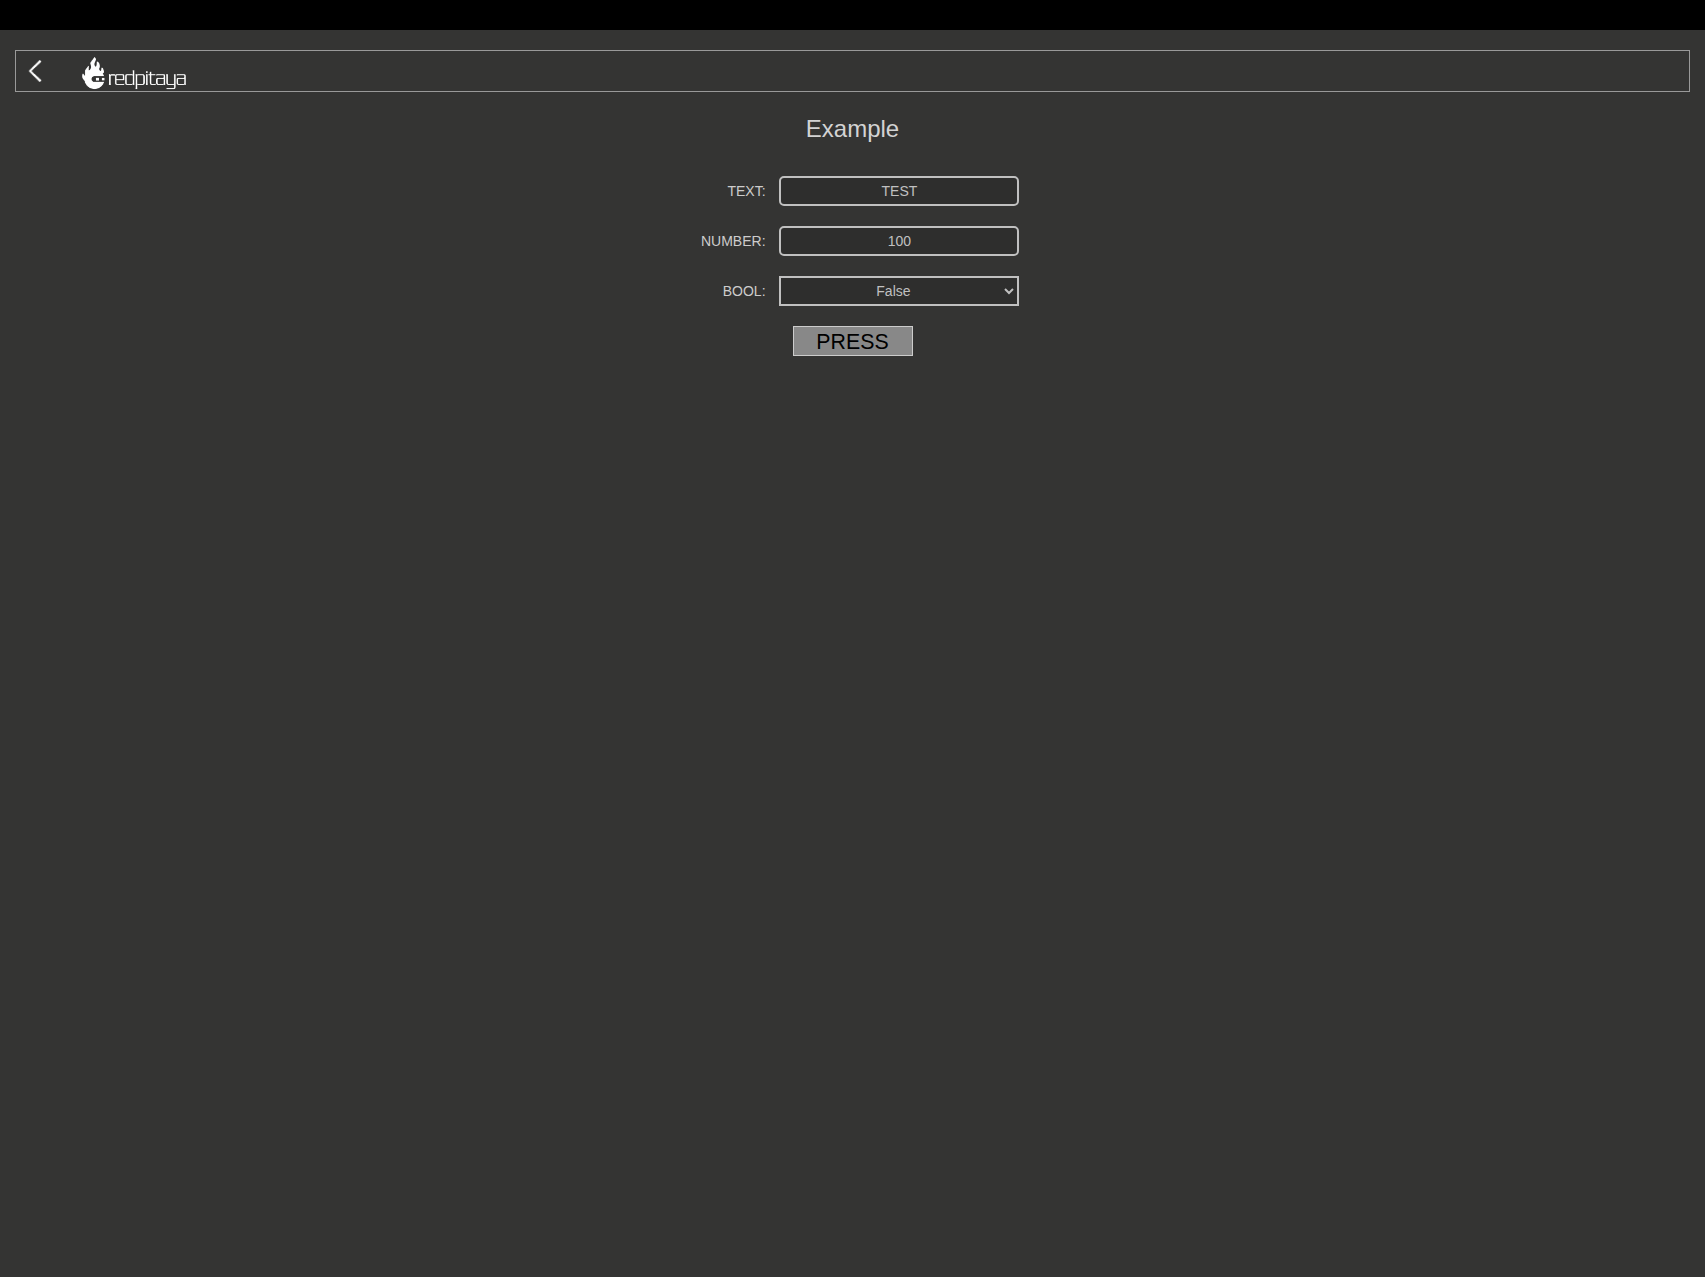
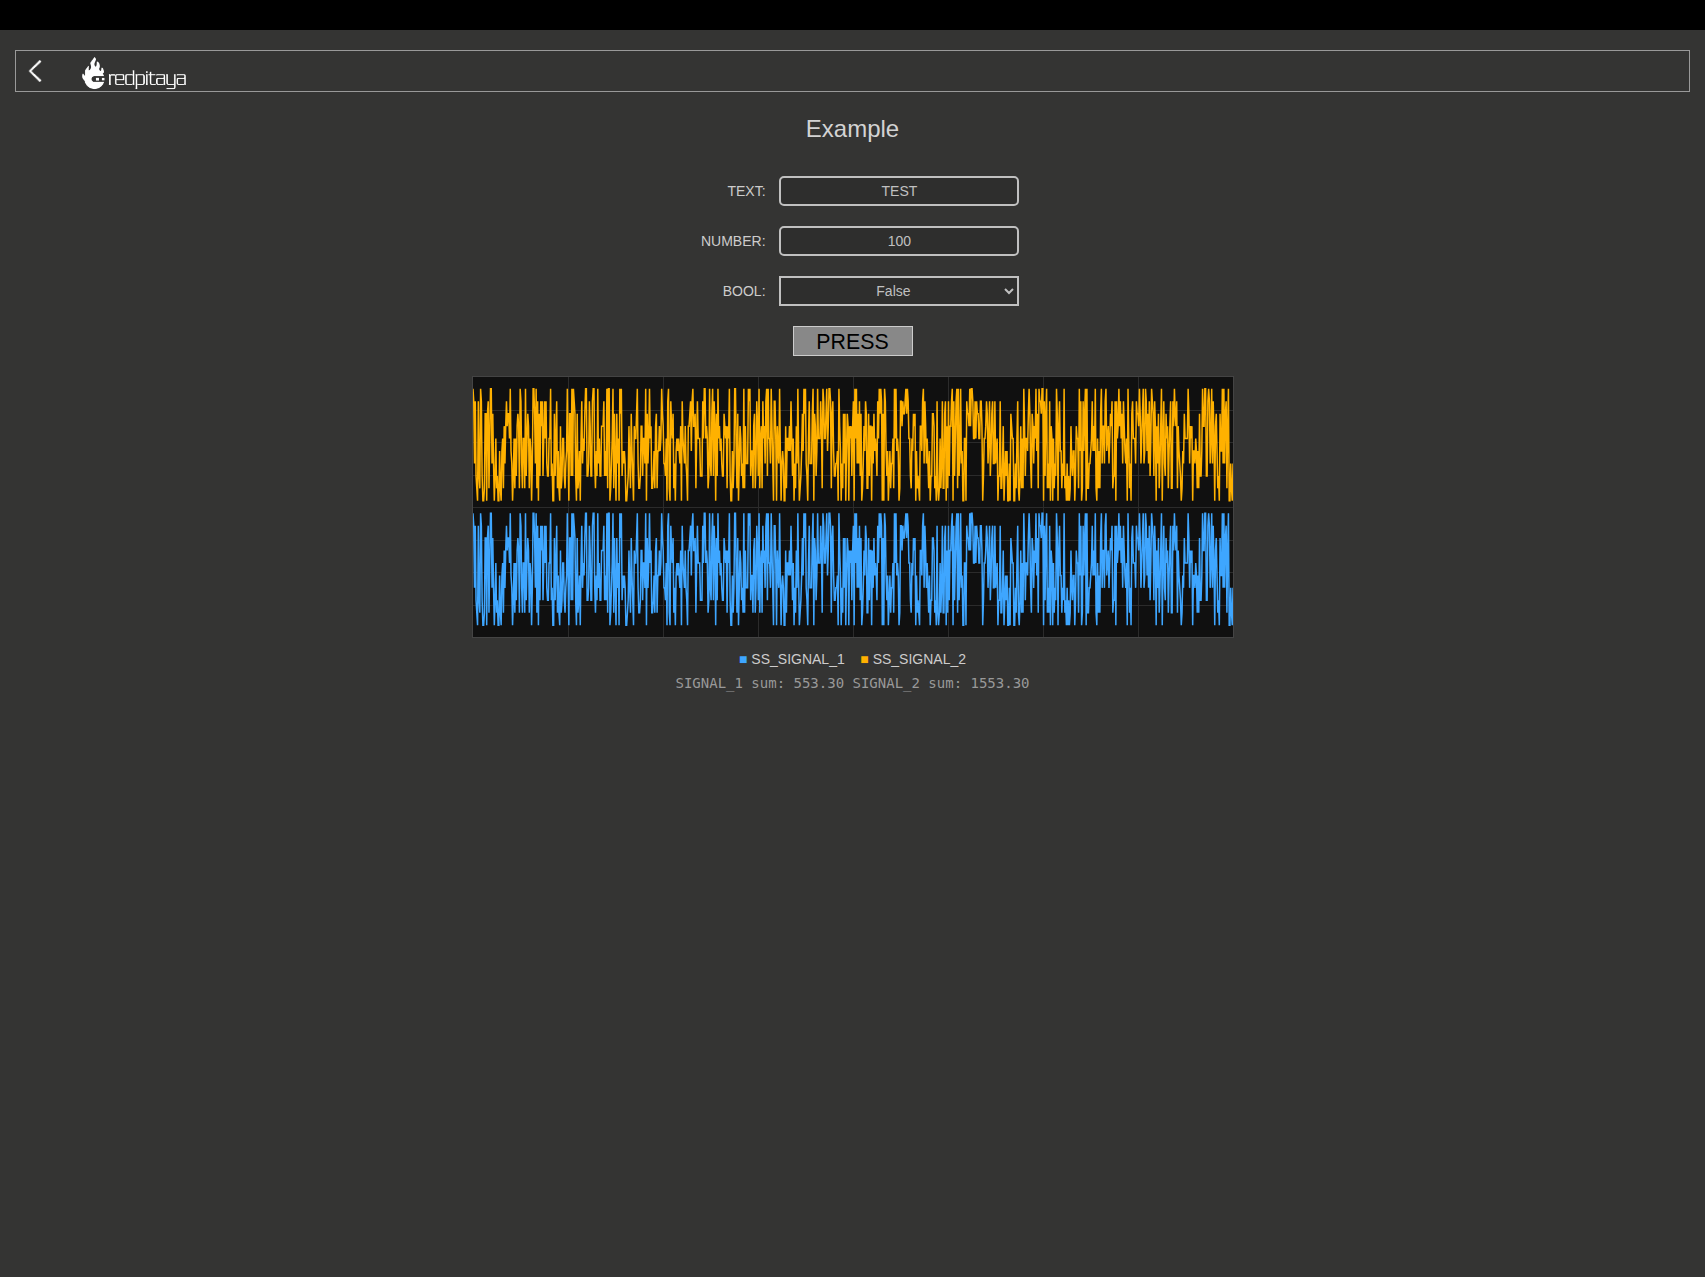
Add live oscilloscope-style viewer for the signal-array demo
The stock example receives SS_SIGNAL_1/SS_SIGNAL_2 (its "array data
transmission" demo feature) but only ever sums them to the console -
the data was never actually visualized.

Added app/js/scope.js: a small canvas renderer wired into sm.js's
existing signalsHandler (already running at ~25 fps). Both signal
arrays are drawn as live traces with a legend and running-sum readout.

Hit one bug immediately: SS_SIGNAL_1 values are ~[0,1] but
SS_SIGNAL_2 are ~[1,2] (visible from sum2 - sum1 ~= 1000 over 1000
samples), so a fixed [0,1] mapping left SIGNAL_2 rendering entirely
off-canvas. Fixed by auto-scaling to the actual min/max across both
arrays each frame instead of assuming a fixed range.

Verified live: both traces render and update continuously with zero
console errors. Updated docs/FINDINGS.md (#12) and the README
screenshot to match.

Changed region(s): [[0.2798, 0.2749, 0.746, 0.5497]]

diff --git a/app/js/scope.js b/app/js/scope.js
@@ -1,0 +1,99 @@
+// Renders the SS_SIGNAL_1 / SS_SIGNAL_2 arrays (see sm.js signalsHandler) as a
+// live oscilloscope-style trace instead of just summing them to the console.
+var Scope = (function() {
+    var canvas, ctx, width, height;
+
+    function init() {
+        canvas = document.getElementById('scope-canvas');
+        if (!canvas) return;
+        ctx = canvas.getContext('2d');
+        width = canvas.width;
+        height = canvas.height;
+        drawGrid();
+    }
+
+    function drawGrid() {
+        ctx.fillStyle = '#101010';
+        ctx.fillRect(0, 0, width, height);
+        ctx.strokeStyle = '#2b2b2b';
+        ctx.lineWidth = 1;
+        var divisions = 8;
+        for (var i = 1; i < divisions; i++) {
+            var x = Math.round((width / divisions) * i) + 0.5;
+            ctx.beginPath();
+            ctx.moveTo(x, 0);
+            ctx.lineTo(x, height);
+            ctx.stroke();
+
+            var y = Math.round((height / divisions) * i) + 0.5;
+            ctx.beginPath();
+            ctx.moveTo(0, y);
+            ctx.lineTo(width, y);
+            ctx.stroke();
+        }
+    }
+
+    function drawTrace(values, color, toY) {
+        if (!values || !values.length) return;
+        ctx.strokeStyle = color;
+        ctx.lineWidth = 1.5;
+        ctx.beginPath();
+        for (var i = 0; i < values.length; i++) {
+            var x = (i / (values.length - 1)) * width;
+            var y = toY(values[i]);
+            if (i === 0) {
+                ctx.moveTo(x, y);
+            } else {
+                ctx.lineTo(x, y);
+            }
+        }
+        ctx.stroke();
+    }
+
+    // SS_SIGNAL_1 and SS_SIGNAL_2 don't share a fixed value range (observed
+    // roughly [0,1] and [1,2] respectively), so auto-scale to whatever range
+    // is actually present each frame rather than assuming one.
+    function rangeOf(values) {
+        var min = Infinity, max = -Infinity;
+        for (var i = 0; i < values.length; i++) {
+            if (values[i] < min) min = values[i];
+            if (values[i] > max) max = values[i];
+        }
+        return { min: min, max: max };
+    }
+
+    function render(sig1, sig2, sum1, sum2) {
+        if (!ctx) init();
+        if (!ctx) return;
+
+        var r1 = sig1 && sig1.length ? rangeOf(sig1) : { min: 0, max: 1 };
+        var r2 = sig2 && sig2.length ? rangeOf(sig2) : { min: 0, max: 1 };
+        var min = Math.min(r1.min, r2.min);
+        var max = Math.max(r1.max, r2.max);
+        var span = (max - min) || 1;
+        var margin = span * 0.05;
+        min -= margin;
+        max += margin;
+        span = max - min;
+
+        var toY = function(v) {
+            return height - ((v - min) / span) * height;
+        };
+
+        drawGrid();
+        drawTrace(sig1, '#3ea6ff', toY); // SS_SIGNAL_1
+        drawTrace(sig2, '#ffb100', toY); // SS_SIGNAL_2
+
+        var readout = document.getElementById('scope-readout');
+        if (readout && sum1 !== undefined && sum2 !== undefined) {
+            readout.textContent =
+                'SIGNAL_1 sum: ' + sum1.toFixed(2) + '    SIGNAL_2 sum: ' + sum2.toFixed(2);
+        }
+    }
+
+    return { init: init, render: render };
+})();
+
+$(document).ready(function() {
+    Scope.init();
+});

diff --git a/app/index.html b/app/index.html
@@ -31,6 +31,7 @@
     <script src="../assets/pako.js"></script>
     <script src="js/help-sm.js"></script>
     <script src="js/guiHandler.js"></script>
+    <script src="js/scope.js"></script>
     <script src="js/sm.js"></script>
 </head>
 
@@ -98,6 +99,16 @@
                                             <a href="#" id="a_run" style="">PRESS</a>
                                         </li>
                                     </div>
+                                </div>
+
+                                <div style="margin-top: 20px;">
+                                    <canvas id="scope-canvas" width="760" height="260" style="border: 1px solid #444;"></canvas>
+                                    <div id="scope-legend" style="margin-top: 6px;">
+                                        <span style="color: #3ea6ff;">&#9632;</span> SS_SIGNAL_1
+                                        &nbsp;&nbsp;
+                                        <span style="color: #ffb100;">&#9632;</span> SS_SIGNAL_2
+                                    </div>
+                                    <div id="scope-readout" style="margin-top: 4px; color: #999; font-family: monospace;"></div>
                                 </div>
                             </div>
                         </div>

diff --git a/app/js/sm.js b/app/js/sm.js
@@ -199,6 +199,10 @@
             }
             console.log("SIGNAL SUM1 = " + sig_sum_1 + "; SIGNAL SUM2 = " + sig_sum_2);
 
+            if (window.Scope && typeof Scope.render === 'function') {
+                Scope.render(sig_1.value, sig_2.value, sig_sum_1, sig_sum_2);
+            }
+
             SM.signalStack.splice(0, 1);
         }
         if (SM.signalStack.length > 2)

diff --git a/docs/FINDINGS.md b/docs/FINDINGS.md
@@ -310,6 +310,20 @@ with zero console errors.
 
 `index.html` includes `<script src="js/analytics-main.js"></script>`, but that file isn't part of the downloaded example zip at all — a packaging gap in the official archive. Harmless (a 404 the browser ignores), but noisy in the network log. Removed the `<script>` tag in `app/index.html` since the file was never shipped and nothing in the app depends on it.
 
+## 12. Added feature: live oscilloscope-style signal viewer
+
+With signal decoding actually working (§10), the stock example's handling of `SS_SIGNAL_1`/`SS_SIGNAL_2` was still just a running sum printed to `console.log` — the array data was received but never visualized, despite "array data transmission" being one of the example's two advertised demo features.
+
+Added `app/js/scope.js`, a small self-contained renderer wired into `sm.js`'s existing `signalsHandler` (which already runs on a 40 ms interval, i.e. ~25 fps):
+
+```js
+if (window.Scope && typeof Scope.render === 'function') {
+    Scope.render(sig_1.value, sig_2.value, sig_sum_1, sig_sum_2);
+}
+```
+
+It draws both signal arrays onto a `<canvas>` as oscilloscope-style traces, plus a text readout of the running sums. One issue surfaced immediately when first tested: `SS_SIGNAL_1` values are in roughly `[0, 1]` but `SS_SIGNAL_2` values are in roughly `[1, 2]` (visible from the sums: `sum2 - sum1 ≈ 1000` over a 1000-sample array) — a single fixed `[0,1]` → canvas-height mapping left `SS_SIGNAL_2` rendering entirely off the top of the canvas. Fixed by computing the actual min/max across both arrays each frame and auto-scaling to that range (with a small margin), rather than assuming a fixed range.
+
 ## Summary of fixes applied
 
 | Issue | File | Fix |
@@ -322,6 +336,7 @@ with zero console errors.
 | Backend fails to launch (`Error: -1`) | (deploy step) | Deploy under a directory name matching `sm.js`'s `app_id` (`example`), not an arbitrary name |
 | Signal messages silently dropped (`incorrect header check`) | `app/js/sm.js` | Strip the 4-byte `EZIA` magic prefix before `pako.inflate()` on fallback |
 | Dangling 404 on `analytics-main.js` | `app/index.html` | Removed the unused `<script>` tag |
+| Signal data received but never visualized | `app/js/scope.js` (new) | Added a live, auto-scaled oscilloscope-style canvas renderer |
 
 ## Scope note
 

diff --git a/README.md b/README.md
@@ -36,6 +36,10 @@ CONTRIBUTING.md   How to contribute
 
 Full detail, including the exact compiler errors and raw WebSocket frame bytes, is in [`docs/FINDINGS.md`](docs/FINDINGS.md). The app has been verified working end-to-end in-browser: launches, connects over WebSocket, round-trips `TEXT`/`NUMBER`/`BOOL` parameters, and streams the signal-array demo correctly — with a clean console.
 
+## Added: live oscilloscope-style signal viewer
+
+`app/js/scope.js` is a new addition (not part of the stock example) that renders the `SS_SIGNAL_1`/`SS_SIGNAL_2` random-array demo as two live, auto-scaled traces on a `<canvas>`, refreshed at the same ~25 fps rate the backend already sends signal updates at, instead of just summing them to the console. See [`docs/FINDINGS.md`](docs/FINDINGS.md#12-added-feature-live-oscilloscope-style-signal-viewer).
+
 ## Build
 
 Building on-device requires temporary swap — the board's 206 MiB of RAM is not enough for the compiler to get through the C++20 STL headers (`cc1plus` gets OOM-killed otherwise). See [`docs/FINDINGS.md`](docs/FINDINGS.md#6-out-of-memory-during-compilation) for the full explanation.